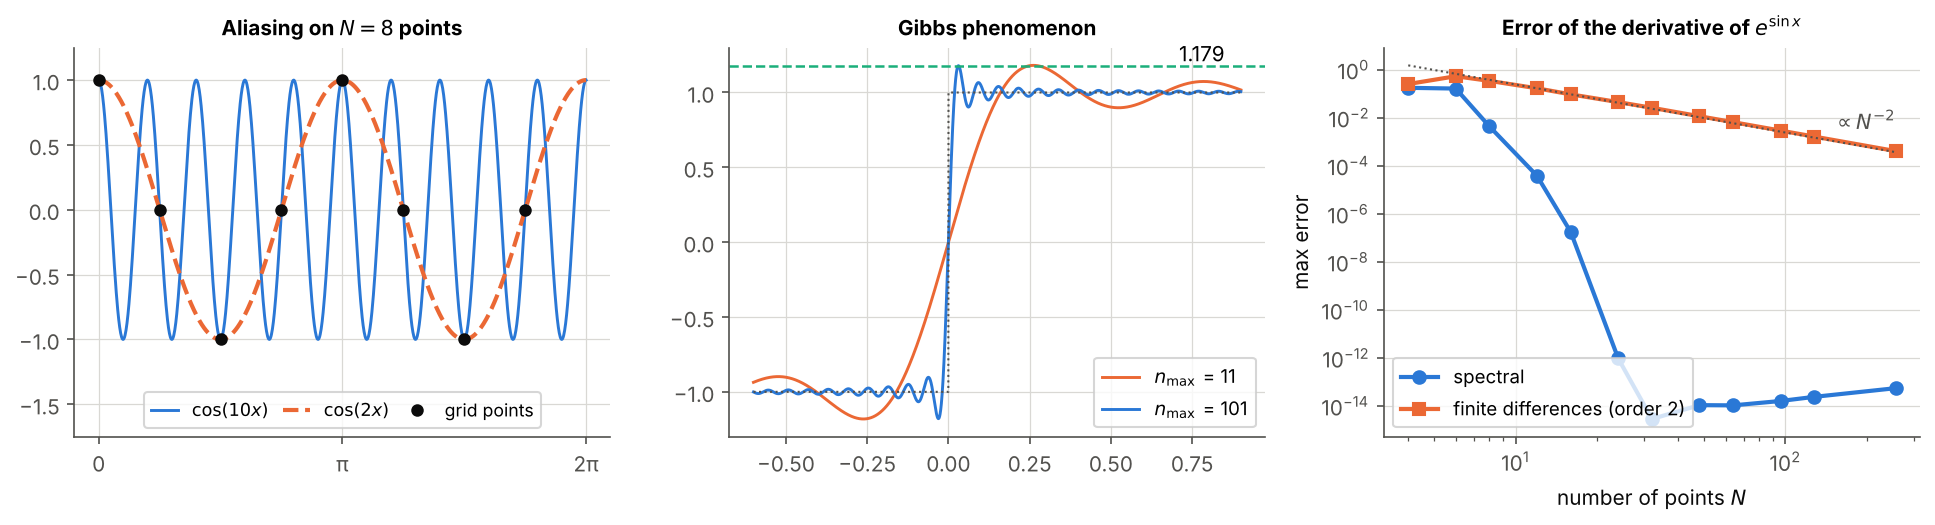
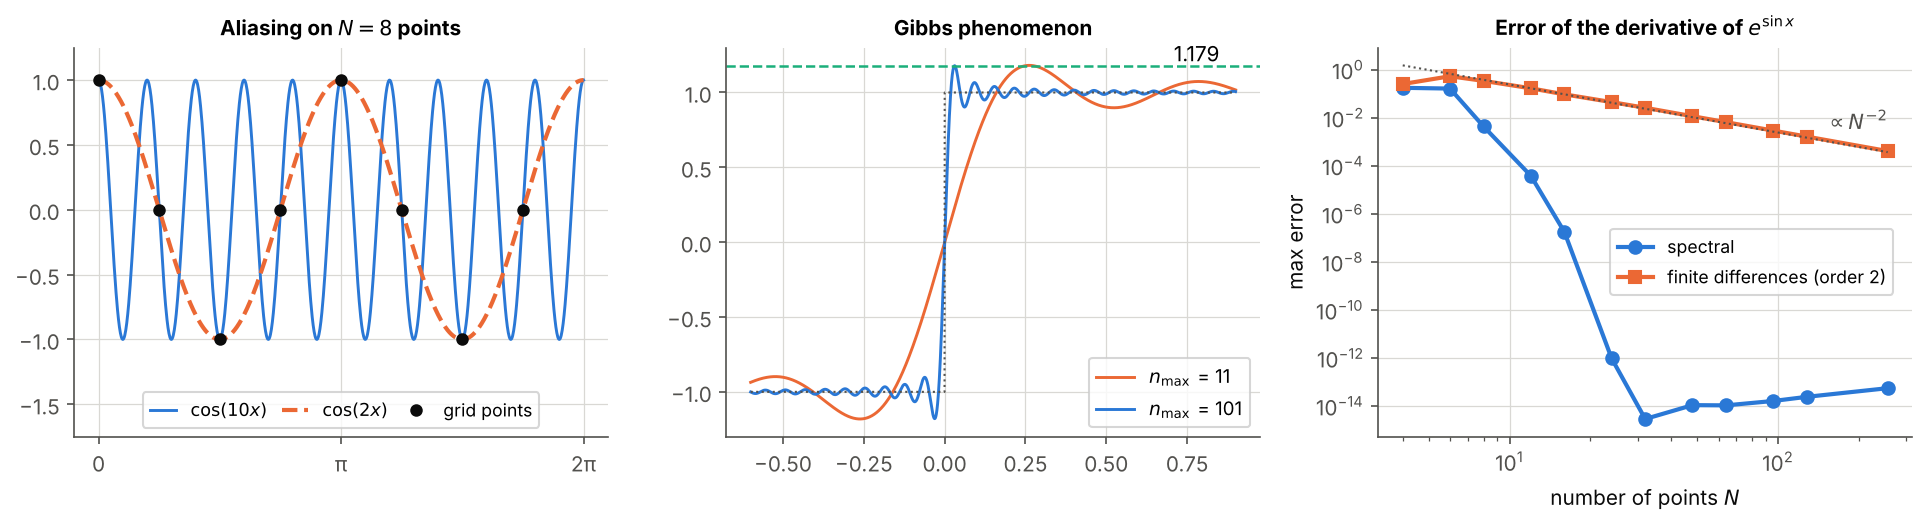
Fixes from the supervisor review of the figure work
- check_gates.py: an image counts as written only if a save/savefig call
  names it in a function the script's __main__ block calls (parsed with
  ast; comments and dead functions no longer pass), and unused images in a
  module folder are reported. Tested on a scratch copy.
- P3 vks.png: the four recirculation loops now turn consistently (along
  the axis towards each impeller, back along the wall), as in P2 (f);
  "371 mm" label moved off the wall; Gissinger grey band ends at 0.86.
- P4 Lorenz caption: saturation at t = 20 to 23 (printed by the script),
  not 25; docstring says which panels are drawn here and that the dashed
  slope is the lambda_1 measured on the page.
- P1 caption: overshoot 0.181 (n_max = 11) and 0.179 (101), both printed;
  legend moved off the spectral curve. P2 alt text 0.33 and zones.
- Docstrings of P2 and P3 list where the scripts differ from the page code.
- E1 note: what was not reproducible is the first model of each process.

Claude-Session: https://claude.ai/code/session_019DLE2UupA8nNvHWE1xMPtD

diff --git a/site/prep/p3-mhd-dynamo/figures_p3.py b/site/prep/p3-mhd-dynamo/figures_p3.py
@@ -1,8 +1,11 @@
 """Static figures of module p3 (MHD and dynamo theory).
 
 Usage: python3 figures_p3.py [out_dir]     (default: the figures/ folder next to this script)
-Each data figure reuses the code block of the page that precedes it; the numbers quoted in the
-captions are printed. The VKS diagram uses the dimensions of docs/specs/sources/dynamo.md §1.3.
+Each data figure reuses the code block of the page that precedes it, with these differences:
+expulsion is computed at N = 128 (page default 96, as the caption says; energies agree to 0.004);
+alpha2 adds points near the threshold and integrates 40 time units for C < 7.5 (slow growth);
+gissinger records the time series of one trajectory at Gamma = 0.86 and 0.90. The numbers quoted
+in the captions are printed. The VKS diagram uses the dimensions of docs/specs/sources/dynamo.md §1.3.
 Runs on CPU in about two minutes.
 """
 import sys
@@ -184,17 +187,18 @@ def fig_vks(out):
         for sy in (-1, 1):
             x0, x1 = sorted((sx * 20, sx * 150)); y0, y1 = sorted((sy * 20, sy * 170))
             ax.add_patch(patches.Rectangle((x0, y0), x1 - x0, y1 - y0, fill=False, **loop_kw))
-            ccw = sx * sy < 0                               # sense of the poloidal cell
-            for (xa, ya, dx, dy) in [((x0 + x1) / 2, y1, 1, 0), ((x0 + x1) / 2, y0, -1, 0),
-                                     (x0, (y0 + y1) / 2, 0, -1), (x1, (y0 + y1) / 2, 0, 1)]:
-                d = -1 if ccw else 1
-                ax.annotate("", xy=(xa + 8 * dx * d, ya + 8 * dy * d), xytext=(xa, ya),
+            # drawn along the axis towards the impeller, ejected along the disk, back along the wall,
+            # inwards at the mid-plane (same sense as P2, figure flows (f))
+            xm, ym = sx * 85, sy * 95
+            for (xa, ya, dx, dy) in [(xm, sy * 20, sx, 0), (sx * 150, ym, 0, sy),
+                                     (xm, sy * 170, -sx, 0), (sx * 20, ym, 0, -sy)]:
+                ax.annotate("", xy=(xa + 8 * dx, ya + 8 * dy), xytext=(xa, ya),
                             arrowprops=dict(arrowstyle="-|>", color=fs.C1, lw=1.4))
     for (x, y, sym) in [(-230, 180, "⊙"), (230, 180, "⊗"), (-230, -180, "⊗"), (230, -180, "⊙")]:
         ax.text(x, y, sym, ha="center", va="center", color=fs.C2, fontsize=14, family="DejaVu Sans")
     ax.annotate("", xy=(100, -12), xytext=(-100, -12), arrowprops=dict(arrowstyle="-|>", color="#e34948", lw=3))
-    ax.annotate("", xy=(-185.5, -245), xytext=(185.5, -245), arrowprops=dict(arrowstyle="<->", color=fs.INK2))
-    ax.text(0, -265, "371 mm", ha="center", va="top", color=fs.INK2, fontsize=9)
+    ax.annotate("", xy=(-185.5, -232), xytext=(185.5, -232), arrowprops=dict(arrowstyle="<->", color=fs.INK2))
+    ax.text(0, -240, "371 mm", ha="center", va="top", color=fs.INK2, fontsize=9)
     marks = {1: (-280, 265), 2: (-245, -100), 3: (205, 80), 4: (255, 180), 5: (95, 110), 6: (25, -185), 7: (0, -50)}
     for n, (x, y) in marks.items():
         ax.text(x, y, str(n), ha="center", va="center", color="white", fontsize=9, fontweight="bold",
@@ -255,7 +259,7 @@ def fig_gissinger(out):
     for a in (a1, a2):
         a.axhline(0, color=fs.INK2, lw=0.8); a.set_ylim(-3.3, 3.3); a.set_ylabel("dipole D")
     a1.set_xticklabels([]); a2.set_xlabel("time t")
-    a3.axvspan(0.795, 0.865, color="#e4e3df", lw=0)
+    a3.axvspan(0.795, 0.86, color="#e4e3df", lw=0)
     a3.plot(gammas, per1000, "o-", color=fs.C1, mfc="white", mew=1.5)
     a3.set_xlabel("Γ"); a3.set_ylabel("reversals per 1000 time units")
     fig.tight_layout()

diff --git a/tools/check_gates.py b/tools/check_gates.py
@@ -11,6 +11,7 @@
 Output: "ok" and the number of pages, or the list of problems (exit code 1).
 Usage: python3 tools/check_gates.py [page ...]   (no argument: the whole site; otherwise the given pages)
 """
+import ast
 import re
 import sys
 import html
@@ -34,6 +35,38 @@ class Links:
         text = re.sub(r"<script\b[^>]*>.*?</script>", "", text, flags=re.S)
         self.ids = set(self.ID_RE.findall(text))
         self.refs = [html.unescape(r) for r in self.REF_RE.findall(text)]
+
+
+def written_images(folder):
+    """Image names saved by the figures_p*.py scripts of a module folder.
+
+    A name counts if it is a string literal inside a call to save/savefig, at module level or in a
+    function that the ``if __name__ == "__main__"`` block refers to (comments and dead functions do not count).
+    """
+    names = set()
+    for script in folder.glob("figures_p*.py"):
+        tree = ast.parse(script.read_text(encoding="utf-8"))
+        main_names = set()
+        for node in tree.body:
+            if isinstance(node, ast.If) and "__main__" in ast.unparse(node.test):
+                main_names |= {n.id for n in ast.walk(node) if isinstance(n, ast.Name)}
+
+        def saved(node):
+            out = set()
+            for call in ast.walk(node):
+                if isinstance(call, ast.Call) and getattr(call.func, "attr", getattr(call.func, "id", "")) in ("save", "savefig"):
+                    for c in ast.walk(call):
+                        if isinstance(c, ast.Constant) and isinstance(c.value, str) and c.value.endswith((".png", ".svg")):
+                            out.add(Path(c.value).name)
+            return out
+
+        for node in tree.body:
+            if isinstance(node, (ast.FunctionDef, ast.AsyncFunctionDef)):
+                if node.name in main_names:
+                    names |= saved(node)
+            else:
+                names |= saved(node)
+    return names
 
 
 def parse(path):
@@ -67,10 +100,14 @@ def main():
             n_ex = len(re.findall(r"^\d+\.\s+\*\*★", ex, flags=re.M))
             if n_ex < 10:
                 problems.append(f"{rel}: {n_ex} graded exercises (>= 10 expected)")
-            scripts = "".join(f.read_text(encoding="utf-8") for f in qmd.parent.glob("figures_p*.py"))
-            for img in sorted(set(IMG_RE.findall(src))):
-                if not img.startswith("../") and Path(img).name not in scripts:
+            written = written_images(qmd.parent)
+            used = {img for img in IMG_RE.findall(src) if not img.startswith("../")}
+            for img in sorted(used):
+                if Path(img).name not in written:
                     problems.append(f"{rel}: image {img} not written by a figures_p*.py script of the module")
+            for f in sorted(qmd.parent.rglob("*")):
+                if f.suffix in (".png", ".svg", ".jpg", ".gif") and f.relative_to(qmd.parent).as_posix() not in used:
+                    problems.append(f"{rel}: image {f.relative_to(qmd.parent)} not used by the page (delete it)")
         if (qmd.parent / "index_files").exists():
             problems.append(f"{rel}: index_files/ folder to delete")
         links = cache.setdefault(html, parse(html))

diff --git a/site/prep/p4-dynamical-systems/figures_p4.py b/site/prep/p4-dynamical-systems/figures_p4.py
@@ -1,8 +1,11 @@
 """Static figures of module p4 (dynamical systems, bifurcations, chaos, noise).
 
 Usage: python3 figures_p4.py [out_dir]     (default: the figures/ folder next to this script)
-Each figure reuses the code block of the page that precedes it; the numbers quoted in the captions
-are printed. Runs on CPU in about one minute.
+Kramers (c) and Gissinger (e) rerun the code blocks of the page (same seeds); the other panels are
+drawn here: the bifurcation branches (analytic, numpy roots), the Lorenz attractor and the separation
+of two trajectories (no renormalisation; the dashed slope is the lambda_1 = 0.90 measured by the
+Benettin and QR methods of the page, not fitted here), and the Gissinger trajectories of (a)-(d)
+(seed 4, transient 600). The numbers quoted in the captions are printed. Runs in about one minute.
 """
 import sys
 from pathlib import Path
@@ -96,7 +99,7 @@ def fig_lorenz(out):
         xa, xb = rk4(F, xa, dt), rk4(F, xb, dt)
         ts.append((k + 1) * dt); ds.append(np.linalg.norm(xb - xa))
     ts, ds = np.array(ts), np.array(ds)
-    lam1 = 0.90                                             # page: lambda_1 ≈ 0.90 (Benettin and QR)
+    lam1 = 0.90                                             # measured by the code block of the page (Benettin, QR)
     fig, ax = plt.subplots(1, 2, figsize=(10, 3.8))
     ax[0].plot(traj[:, 0], traj[:, 2], color=fs.C1, lw=0.6)
     ax[0].set_xlabel("x"); ax[0].set_ylabel("z"); ax[0].set_title("(a) Lorenz attractor (x–z projection)")
@@ -106,8 +109,7 @@ def fig_lorenz(out):
     ax[1].set_ylim(3e-9, 1e2); ax[1].legend(loc="lower right")
     ax[1].set_xlabel("time t"); ax[1].set_ylabel("|δx(t)| (log scale)")
     ax[1].set_title("(b) distance between two trajectories (initial distance 10⁻⁸)")
-    sat = ts[np.argmax(ds > 1.0)]
-    print(f"lorenz: separation reaches 1 at t = {sat:.1f}, max {ds.max():.1f}")
+    print("lorenz: separation reaches " + ", ".join(f"{v:g} at t = {ts[np.argmax(ds > v)]:.1f}" for v in (1, 10, 20)))
     fig.tight_layout()
     fs.save(fig, out / "lorenz.png")
 

diff --git a/site/prep/p1-vector-calculus/figures_p1.py b/site/prep/p1-vector-calculus/figures_p1.py
@@ -117,8 +117,9 @@ def fig_fourier(out):
         S = sum(4 / np.pi * np.sin(n * xx) / n for n in range(1, n_max + 1, 2))
         ax[1].plot(xx, S, color=col, lw=1.4, label=rf"$n_\max$ = {n_max}")
     xm = np.linspace(1e-4, np.pi / 2, 200001)
-    smax = (sum(4 / np.pi * np.sin(n * xm) / n for n in range(1, 102, 2))).max()
-    print(f"fourier: max of the partial sum (n_max = 101) = {smax:.4f}")
+    for n_max in (11, 101):
+        smax = (sum(4 / np.pi * np.sin(n * xm) / n for n in range(1, n_max + 1, 2))).max()
+        print(f"fourier: max of the partial sum (n_max = {n_max}) = {smax:.4f}")
     ax[1].plot(xx, np.sign(xx), ":", color=fs.INK2, lw=1)
     ax[1].axhline(smax, color=fs.C3, ls="--", lw=1.2); ax[1].text(0.85, smax + 0.03, f"{smax:.3f}", ha="right")
     ax[1].legend(loc="lower right", fontsize=9, frameon=True); ax[1].set_title("Gibbs phenomenon")
@@ -136,7 +137,8 @@ def fig_fourier(out):
     ax[2].loglog(Ns, ed[3] * (Ns / Ns[3]) ** -2.0, ":", color=fs.INK2, lw=1)
     ax[2].text(150, ed[3] * (150 / Ns[3]) ** -2.0 * 3, r"$\propto N^{-2}$", color=fs.INK2)
     ax[2].set_xlabel(r"number of points $N$"); ax[2].set_ylabel("max error")
-    ax[2].legend(loc="lower left", fontsize=9, frameon=True); ax[2].set_title(r"Error of the derivative of $e^{\sin x}$")
+    ax[2].legend(loc="center", bbox_to_anchor=(0.70, 0.45), fontsize=8.5, frameon=True)
+    ax[2].set_title(r"Error of the derivative of $e^{\sin x}$")
     fig.tight_layout()
     fs.save(fig, out / "fig-fourier.png")
 

diff --git a/site/prep/p2-fluid-mechanics/figures_p2.py b/site/prep/p2-fluid-mechanics/figures_p2.py
@@ -1,7 +1,9 @@
 """Static figures of module p2 (fluid mechanics, reference flows, turbulence).
 
 Usage: python3 figures_p2.py [out_dir]     (default: the folder of this script)
-lagrange and kolmogorov64 rerun the code blocks of the page (sections 1 and 7); the model spectrum is
+kolmogorov64 reruns the solver of the page (section 7); lagrange advects the boundary of the blob
+with the RK4 of the section 1 block (400 steps per time unit) and measures its area by the shoelace
+formula (the page block checks det(dX/da) = 1 at points, not areas); the model spectrum is
 that of Pope (2000) used by the interactive diagram of section 6 (C = 1.5, p0 = 2, c_L = 6.78,
 beta = 5.2, c_eta = 0.40); the VKS panel uses a model stream function and the dimensions of
 docs/specs/sources/dynamo.md §1.3. Prints the numbers quoted in the captions. Runs in about a minute.

diff --git a/experiments/e1_gissinger.py b/experiments/e1_gissinger.py
@@ -267,7 +267,8 @@ def main(quick=False, reverse=False, train_only=False):
         if True:
             # Initial weights depend only on the seed: not on the start-up seed of torch (random in torch 2.14),
             # the job order (--reverse) or which jobs were read from the cache. Before 2026-11-11 the first
-            # model was built before any seeding, so variant A of the published runs is not reproducible.
+            # model built in each process was initialised before any seeding (A_reference seed 0 in a
+            # forward run without cache; C_court of the last seed with --reverse): not reproducible.
             seed_all(seed)
             base = MLPField(3, width=256, depth=4)
             model = SymmetrizedField(base, S) if kind == "sym" else base

diff --git a/docs/review-2026-11.md b/docs/review-2026-11.md
@@ -73,7 +73,7 @@ Fixed on 2026-11-11 as well, without changing any published number:
 
 Found on the way, now fixed, with consequences for the published E1 numbers:
 
-- **E1 variant A was not reproducible.** Its network was built before any seeding, and torch 2.14 starts from a random seed: two runs of the same code gave different results for `A_reference`, `A_reference_half` and `D_tilting_A` (seen in `--quick`). `e1_gissinger.py` now seeds before building each model, so a re-run of E1 will differ from the published values for every variant. The five-seed re-run replaces them.
+- **The first E1 model of each process was not reproducible.** It was built before any seeding, and torch 2.14 starts from a random seed (checked: two fresh processes give different `initial_seed()`). In a forward run without cache this is `A_reference` seed 0, which then propagates to `A_reference_half` and `D_tilting_A` (the old and new code differ only there in `--quick`); with `--reverse` or a partial cache, it is the first model that process trains (`C_court` of the last seed with `--reverse`). How the published run was launched is not recorded, so which published values are affected cannot be told. `e1_gissinger.py` now seeds before building each model, so a re-run of E1 will differ from the published values for every variant. The five-seed re-run replaces them.
 - **E2 summary**: the absolute value of the balance residuals was lost in an earlier rename (`startswith("residu")`); fixed before any re-run. Published values were computed with it.
 
 Still open: the variable names of the teaching code in the modules (`echantillons`, `puits`, …), the agent names `encadrant` and `jury-externe`, and the French keys of `site/assets/interactive/data/abc-dynamo.json` (no generator in the repository).

diff --git a/docs/specs/page-contract.md b/docs/specs/page-contract.md
@@ -77,7 +77,7 @@ Numbering: `Definition <chapter>.<n>` (a single counter per chapter for all call
 ## Figures
 
 - Conceptual diagrams shared between pages: `site/figures/<name>/` (generator in `figure/`, output `figure/out/<name>.png`), inserted with `![Full caption.](../../figures/<name>/figure/out/<name>.png){width="100%" fig-alt="Text description."}`.
-- Module figures: every image in a module's folder is written by the module's script `figures_pN.py` (one function per figure, fixed seeds, output folder = the module by default, run with `python3 figures_pN.py`); `tools/check_gates.py` checks it. The function reuses the code block of the page that precedes the figure and prints every measured number the caption quotes; the caption copies them from that output. Style: `site/assets/figstyle.py` (shared palette and rcParams).
+- Module figures: every image in a module's folder is written by the module's script `figures_pN.py` (one function per figure, fixed seeds, output folder = the module by default, run with `python3 figures_pN.py`); `tools/check_gates.py` checks that each image used by the page is saved by a function the script's `__main__` block calls, and that the folder holds no unused image. The function reuses the code block of the page that precedes the figure and prints every measured number the caption quotes; the caption copies them from that output. Style: `site/assets/figstyle.py` (shared palette and rcParams).
 - Result plots: `site/experiments/figures/*.png` (written by `experiments/figures.py`) (matplotlib).
 
 ## Writing style
